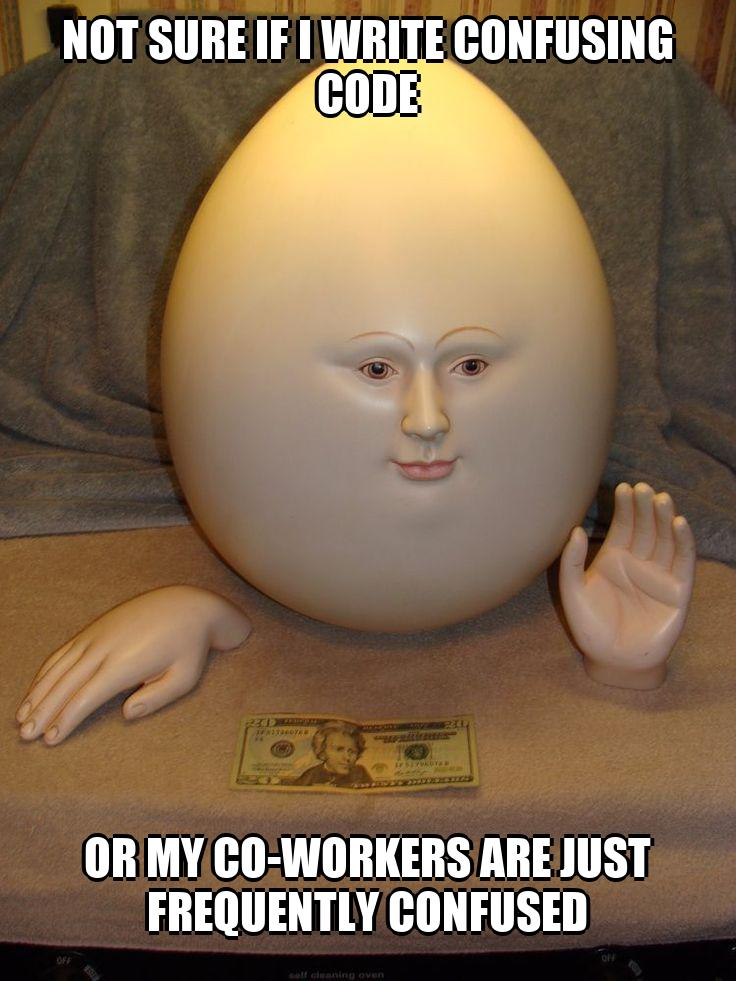
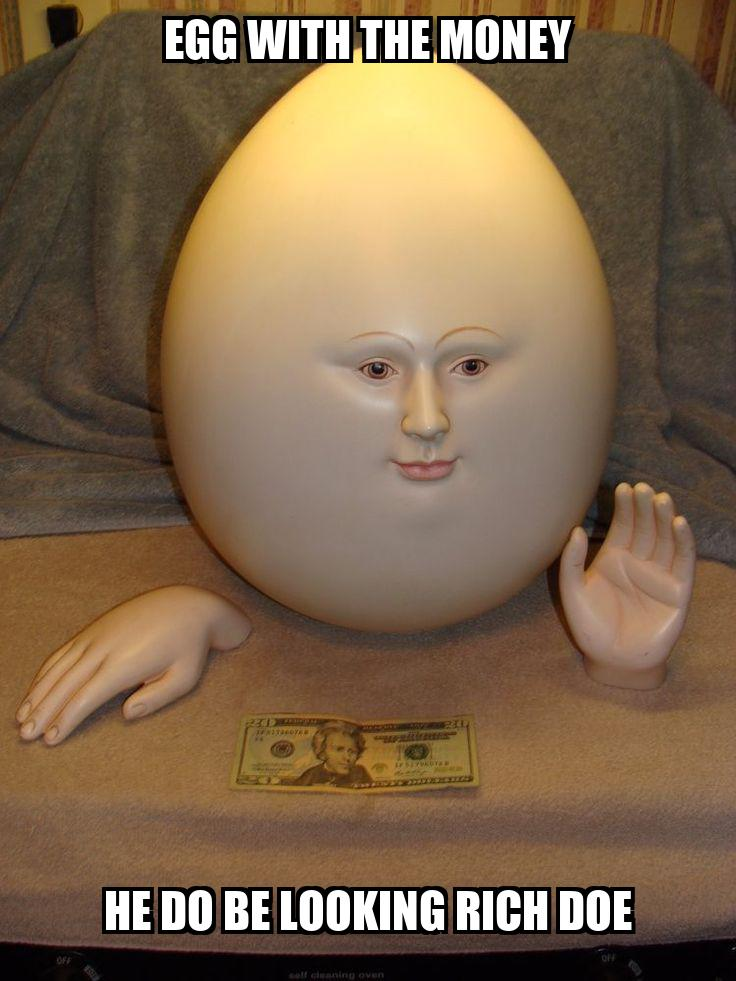
Modify border drawing

Changed region(s): [[0.0938, 0.8257, 0.9062, 0.9786], [0.0625, 0.0, 0.9375, 0.1223]]

diff --git a/computer-vision-two/user_meme_annotator.py b/computer-vision-two/user_meme_annotator.py
@@ -13,26 +13,32 @@ can be ran in the command line and will save an image with text
 """
 
 # No idea how to use tkinter, but this code block works fine
+# For letting the user choose a filepath
 root = Tk()
 root.filename =  filedialog.askopenfilename(title = "Select file",filetypes = (("jpeg files","*.jpg"),("all files","*.*")))
 print (root.filename)
 
+# Load the selected image with PIL
 img = Image.open(root.filename)
 # img = Image.open("computer-vision-two/assets/meme.jpg")
+# To save us some typing...
 draw = ImageDraw.Draw(img)
+
+# Grab the image shape
 h = img.height
 w = img.width
+# Define the font we will use, which changes size based on the image
 font = ImageFont.truetype("computer-vision-two/assets/impact.ttf", int(w/15))
 
 
-
+# Allow the user to choose some text
 top_text = str(input("Please enter top text: ").upper())
 bottom_text = str(input("Please enter bottom text: ").upper())
-
+# Wrap that text so it doesn't go off the screen
 top_text = textwrap.fill(top_text, width = 30)
 bottom_text = textwrap.fill(bottom_text, width = 30)
 
-
+# Finally draw that text
 img = helper_functions.draw_text_with_border(img, top_text, font, location="top")
 img = helper_functions.draw_text_with_border(img, bottom_text, font, location="bottom")
 

diff --git a/computer-vision-two/helper_functions.py b/computer-vision-two/helper_functions.py
@@ -50,10 +50,10 @@ def draw_text_underneath(text, x_pos, y_pos, draw, font, border_size):
     font = font
     border_size = border_size
     # Draw the same text in black slightly offset in each direction
-    draw.text(xy=(x_pos-border_size, y_pos), text=text, font=font, align='center', fill=(0,0,0))
-    draw.text(xy=(x_pos+border_size, y_pos), text=text, font=font, align='center', fill=(0,0,0))
-    draw.text(xy=(x_pos, y_pos-border_size), text=text, font=font, align='center', fill=(0,0,0))
-    draw.text(xy=(x_pos, y_pos+border_size), text=text, font=font, align='center', fill=(0,0,0))
+    draw.text(xy=(x_pos-border_size, y_pos-border_size), text=text, font=font, align='center', fill=(0,0,0))
+    draw.text(xy=(x_pos-border_size, y_pos+border_size), text=text, font=font, align='center', fill=(0,0,0))
+    draw.text(xy=(x_pos+border_size, y_pos-border_size), text=text, font=font, align='center', fill=(0,0,0))
+    draw.text(xy=(x_pos+border_size, y_pos+border_size), text=text, font=font, align='center', fill=(0,0,0))
     # Draw the actual text
     draw.text(xy=(x_pos, y_pos), text=text, font=font, align='center', fill=(255,255,255))
     return
